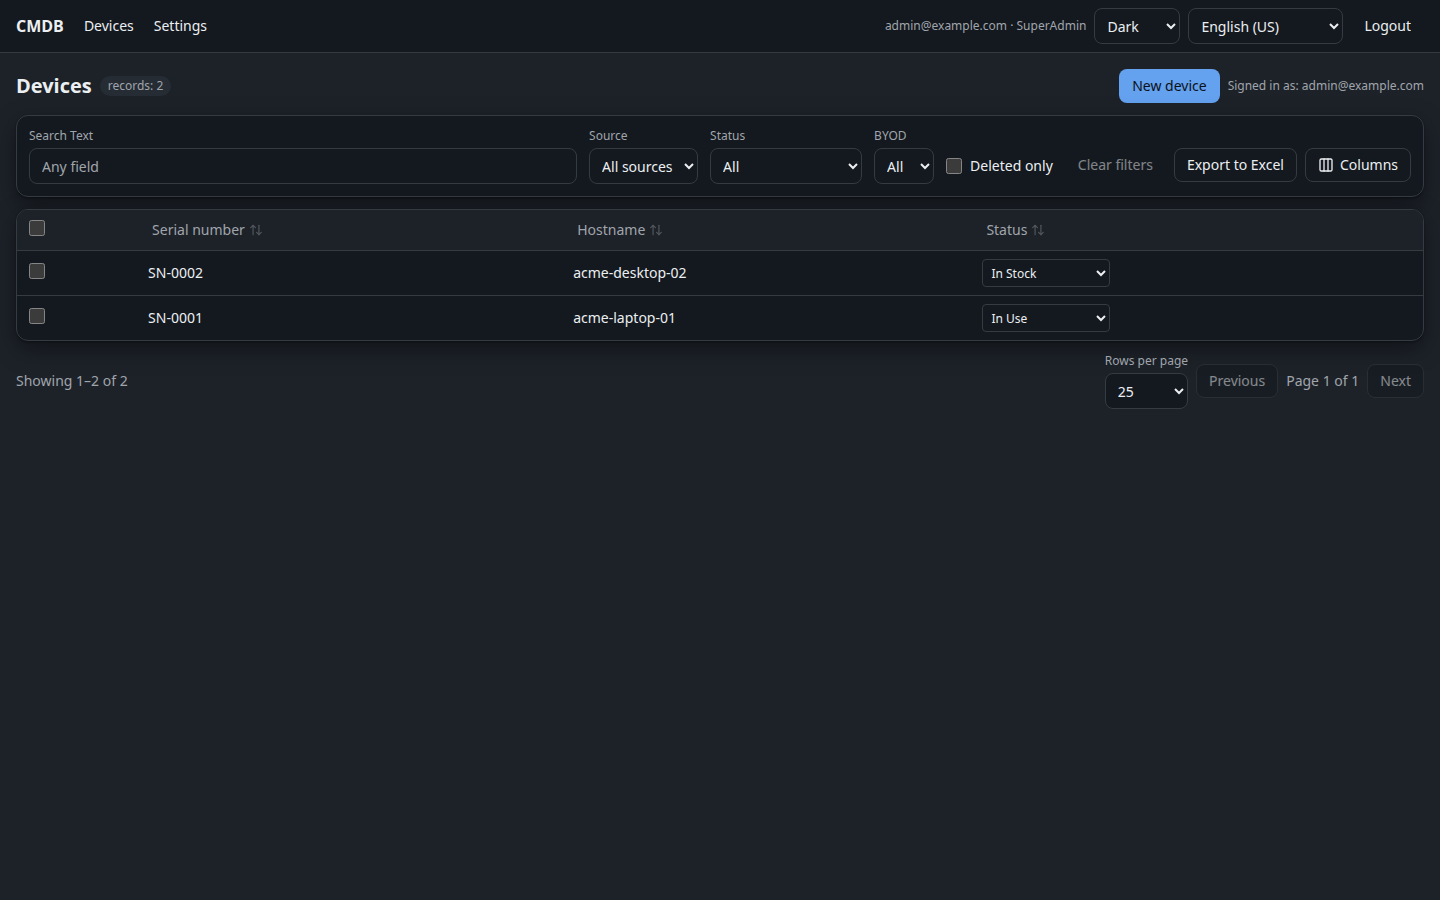
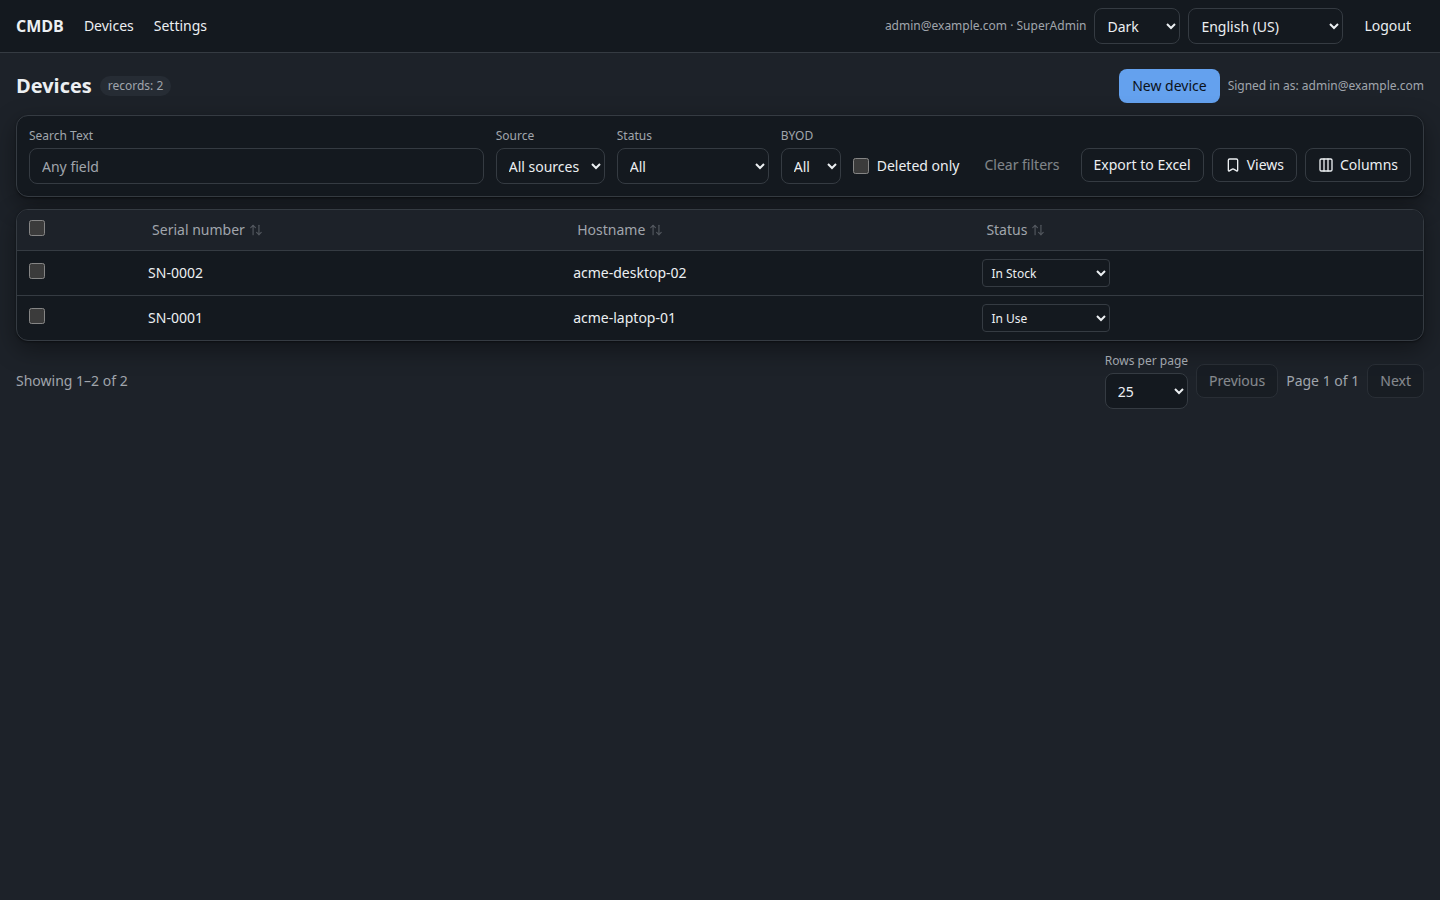
docs(plan): mark every phase done and refresh the screenshots from the final image
All ten phases and all twelve §14 items are closed: the four that are not code
(§14.1 TypeScript 7, §14.6 keyset pagination) are recorded with the evidence that
made the decision (an upstream peer range, and a 197 ms vs 0.17 ms measurement),
not with a promise.

The screenshots were re-captured from the freshly built image, so they show the
Views button, the details page and the Users tab as they ship.

Changed region(s): [[0.5938, 0.1244, 0.9062, 0.2178], [0.3438, 0.1244, 0.4688, 0.2178], [0.5, 0.1244, 0.5625, 0.1556]]

diff --git a/plans/2026-11-02-spa-migration.md b/plans/2026-11-02-spa-migration.md
@@ -365,14 +365,14 @@ generated directories above.
 
 Estimates are focus days for one developer.
 
-### Phase 0 — this plan (0.5 d) ✅ in progress
+### Phase 0 — this plan (0.5 d) ✅ done
 
 * [x] Baseline verified, regressions root-caused (§2.1)
 * [x] Endpoint inventory (§4), stack locked (§13)
 * [x] `plans/2026-11-02-spa-migration.md` + `docs/frontend.md` + README pointer
 * Done when: plan committed; no code changes yet.
 
-### Phase 1 — session auth + preferences (2–3 d)
+### Phase 1 — session auth + preferences (2–3 d) ✅ done
 
 * [x] `lib/session_auth.php`: `session_boot()`, `session_user()`,
   `session_require()`, `session_require_role()`, `session_csrf_require()`,
@@ -448,7 +448,7 @@ Estimates are focus days for one developer.
   → restore → hard delete, CSRF `419`, and the read-sort contract.
   plus bulk actions; verified in the dev image on 2026-11-02 (`68 passed, 0 failed`).
 
-### Phase 4 — SPA shell + design system (4–5 d) 🚧 scaffold done
+### Phase 4 — SPA shell + design system (4–5 d) ✅ done
 
 * [x] Vite scaffold with the pinned stack (§13), `base: '/app/'`,
   `build.outDir: '../public/app'`, dev proxy for `/panel-api`, `/auth`, `/api`;
@@ -483,7 +483,7 @@ Estimates are focus days for one developer.
 * Done when: light/dark/system switch with no flash and no reload; all 7 locales
   switch instantly incl. `ar-SA` RTL; shell passes a keyboard-only walkthrough.
 
-### Phase 5 — data grid (6–8 d)
+### Phase 5 — data grid (6–8 d) ✅ done
 
 * [x] Server-driven sort/filter/page through TanStack Table v8 (`manualSorting`),
   URL as state (`?sort=&dir=&page=&per_page=&q=&source=&status=&company=&byod=&trashed=`),
@@ -516,7 +516,7 @@ Estimates are focus days for one developer.
 * Done when: each §2.1 regression has a test (see §10) and the grid is usable on
   a 360 px viewport.
 
-### Phase 6 — device detail, create/edit, attachments (4–5 d) ✅ core done
+### Phase 6 — device detail, create/edit, attachments (4–5 d) ✅ done
 
 * [x] Read-only detail page (`/app/devices/:id`): every published column, custom
   values, attachment list (name/size/date), back to the grid.
@@ -557,7 +557,7 @@ Estimates are focus days for one developer.
   (blank secret = unchanged, `clear` to wipe) and `e2e/settings.spec.ts` covers a
   save, a per-key `422`, the roster gating and the `can_admin` guard.
 
-### Phase 8 — tests, CI, docs (3–4 d) 🚧 mostly done
+### Phase 8 — tests, CI, docs (3–4 d) ✅ done
 
 * [x] Vitest: `gridSearch` (16), `columnLayout` (12), `selection` (13),
   `deviceForm` (8), `DataGrid` component (4), `theme` (5) — 58 tests.
